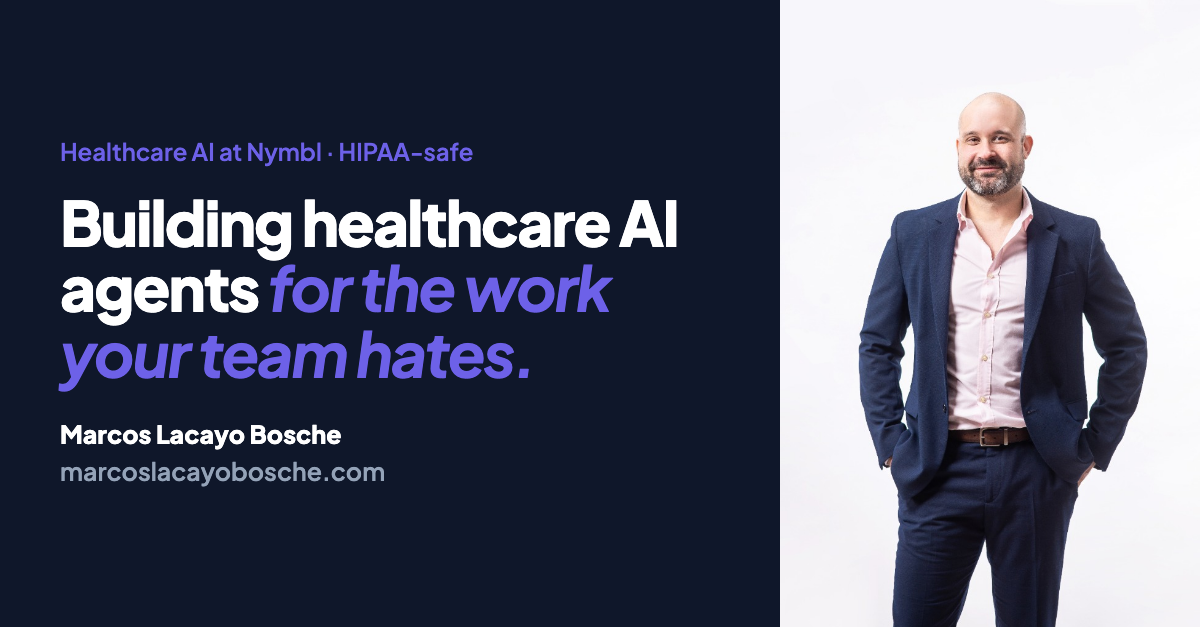
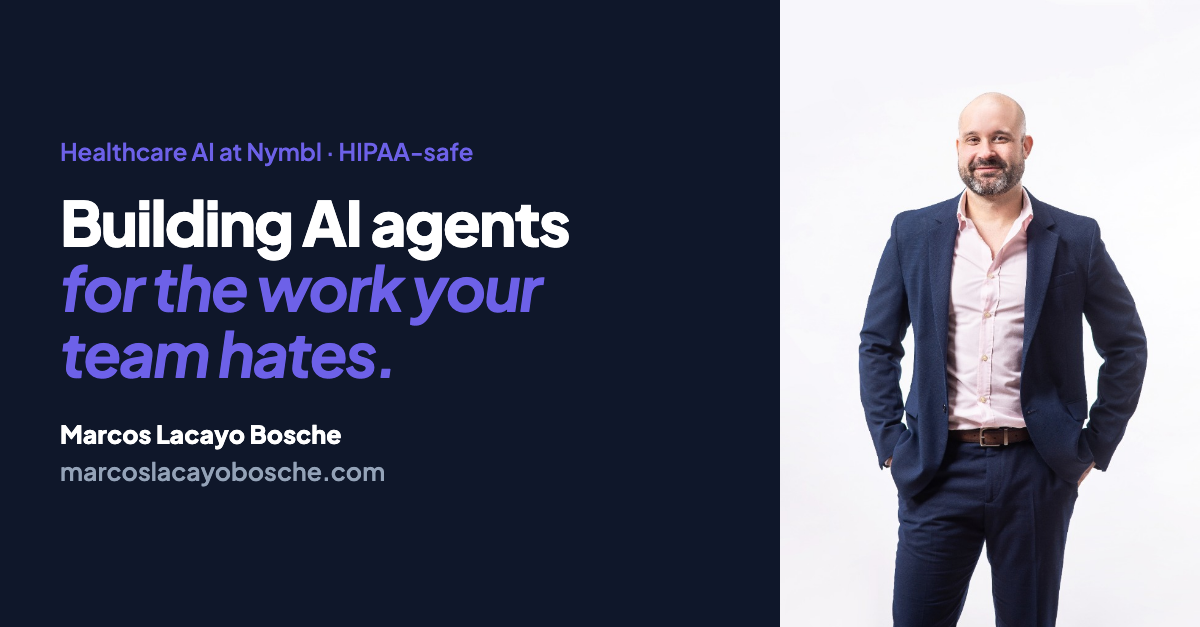
copy: Building AI agents for the work your team hates

Changed region(s): [[0.0308, 0.303, 0.5858, 0.6061], [0.0308, 0.6061, 0.0617, 0.6364]]

diff --git a/index.html b/index.html
@@ -6,28 +6,28 @@
   <meta name="viewport" content="width=device-width, initial-scale=1.0">
 
   <!-- SEO Meta Tags -->
-  <title>Marcos Lacayo Bosche | Building healthcare AI agents for the work your team hates</title>
+  <title>Marcos Lacayo Bosche | Building AI agents for the work your team hates</title>
   <meta name="description"
     content="I build HIPAA-safe healthcare AI agents for the work your team hates, connected to your EMR, billing and phones. Tell me one workflow and I'll show you the agent for it.">
   <meta name="author" content="Marcos Lacayo Bosche">
   <link rel="canonical" href="https://www.marcoslacayobosche.com/">
 
   <!-- Open Graph (LinkedIn preview) -->
-  <meta property="og:title" content="Marcos Lacayo Bosche | Building healthcare AI agents for the work your team hates">
+  <meta property="og:title" content="Marcos Lacayo Bosche | Building AI agents for the work your team hates">
   <meta property="og:description"
     content="I build HIPAA-safe healthcare AI agents for the work your team hates, connected to your EMR, billing and phones. Tell me one workflow and I'll show you the agent for it.">
   <meta property="og:type" content="website">
   <meta property="og:url" content="https://www.marcoslacayobosche.com/">
-  <meta property="og:image" content="https://www.marcoslacayobosche.com/images/og-image.png?v=4">
+  <meta property="og:image" content="https://www.marcoslacayobosche.com/images/og-image.png?v=5">
   <meta property="og:image:width" content="1200">
   <meta property="og:image:height" content="627">
 
   <!-- Twitter Card -->
   <meta name="twitter:card" content="summary_large_image">
-  <meta name="twitter:title" content="Marcos Lacayo Bosche | Building healthcare AI agents for the work your team hates">
+  <meta name="twitter:title" content="Marcos Lacayo Bosche | Building AI agents for the work your team hates">
   <meta name="twitter:description"
     content="I build HIPAA-safe healthcare AI agents for the work your team hates, connected to your EMR, billing and phones. Tell me one workflow and I'll show you the agent for it.">
-  <meta name="twitter:image" content="https://www.marcoslacayobosche.com/images/og-image.png?v=4">
+  <meta name="twitter:image" content="https://www.marcoslacayobosche.com/images/og-image.png?v=5">
 
   <!-- Fonts -->
   <link rel="preconnect" href="https://fonts.googleapis.com">
@@ -87,7 +87,7 @@
       <div class="home-hero-content">
         <p class="home-kicker">Engineer · Healthcare AI at Nymbl · Firefighter &amp; paramedic</p>
 
-        <h1 class="home-hero-title">Building healthcare AI agents <em>for the work your team hates.</em></h1>
+        <h1 class="home-hero-title">Building AI agents <em>for the work your team hates.</em></h1>
 
         <p class="home-hero-subtitle">Phones, prior auths, billing follow-ups. Tell me one and I'll show you the AI agent for it.
           HIPAA-safe and connected to the systems you already use: your EMR, billing, phones, payer portals, and
